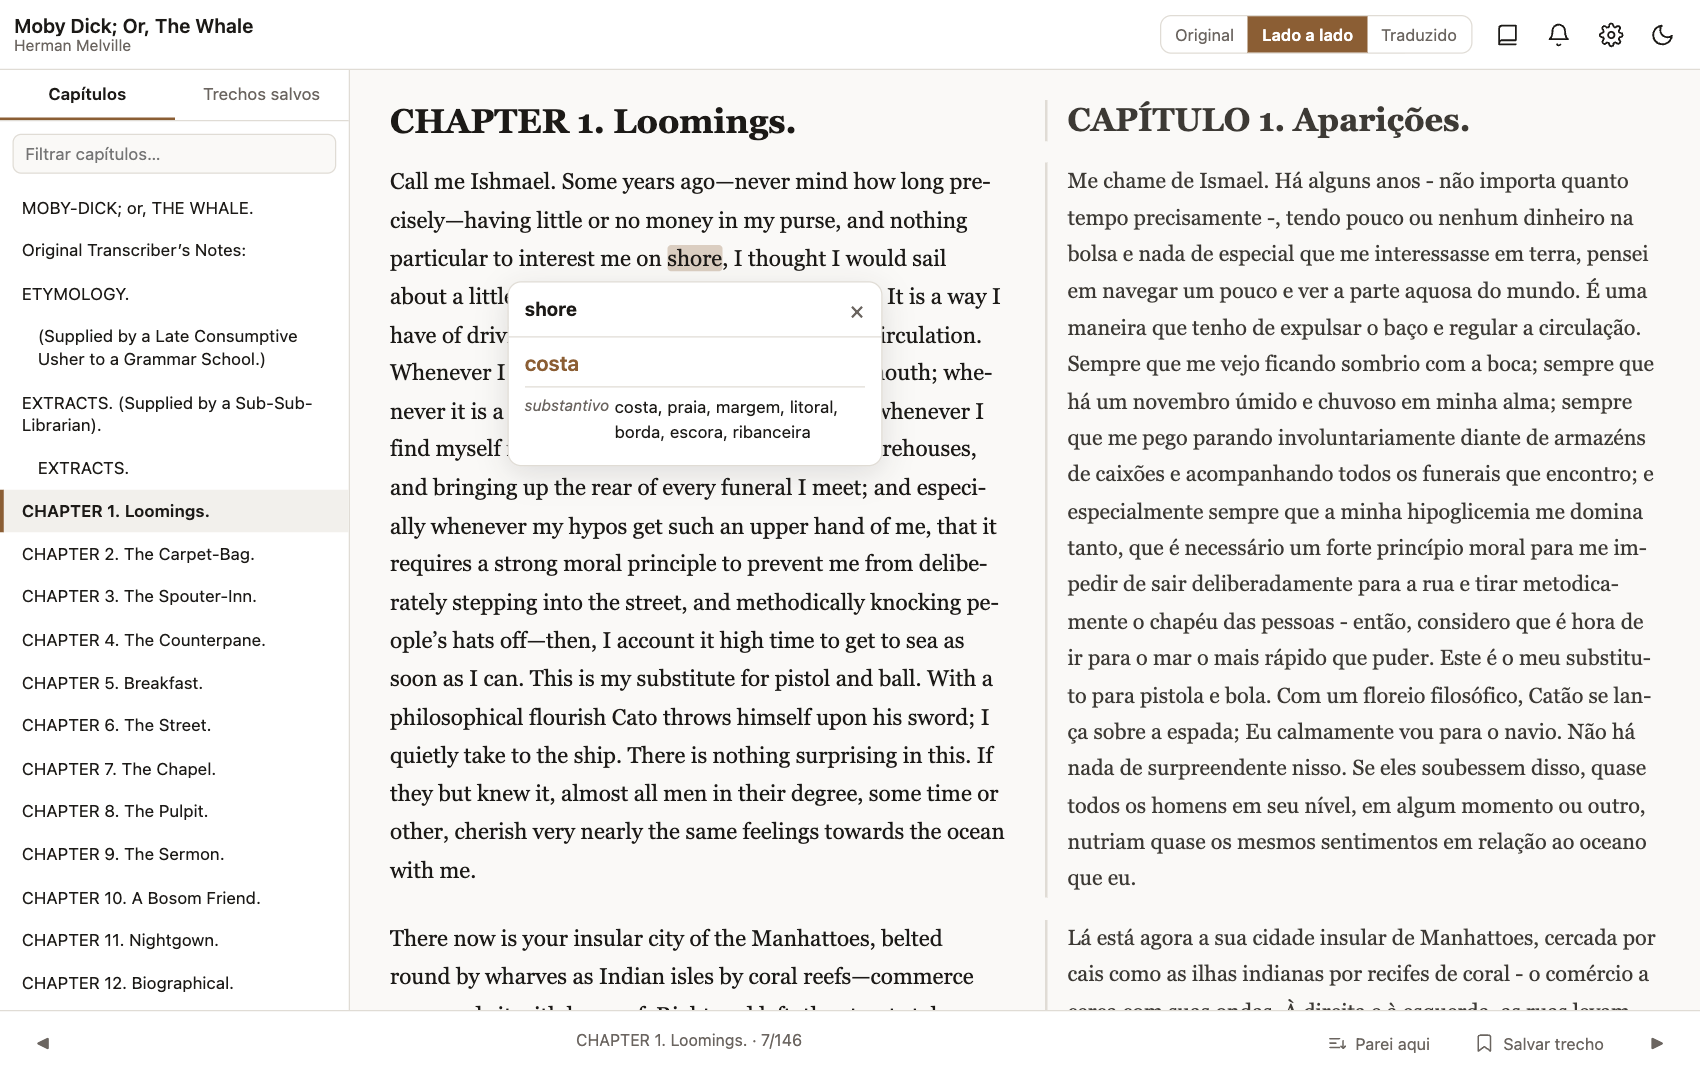
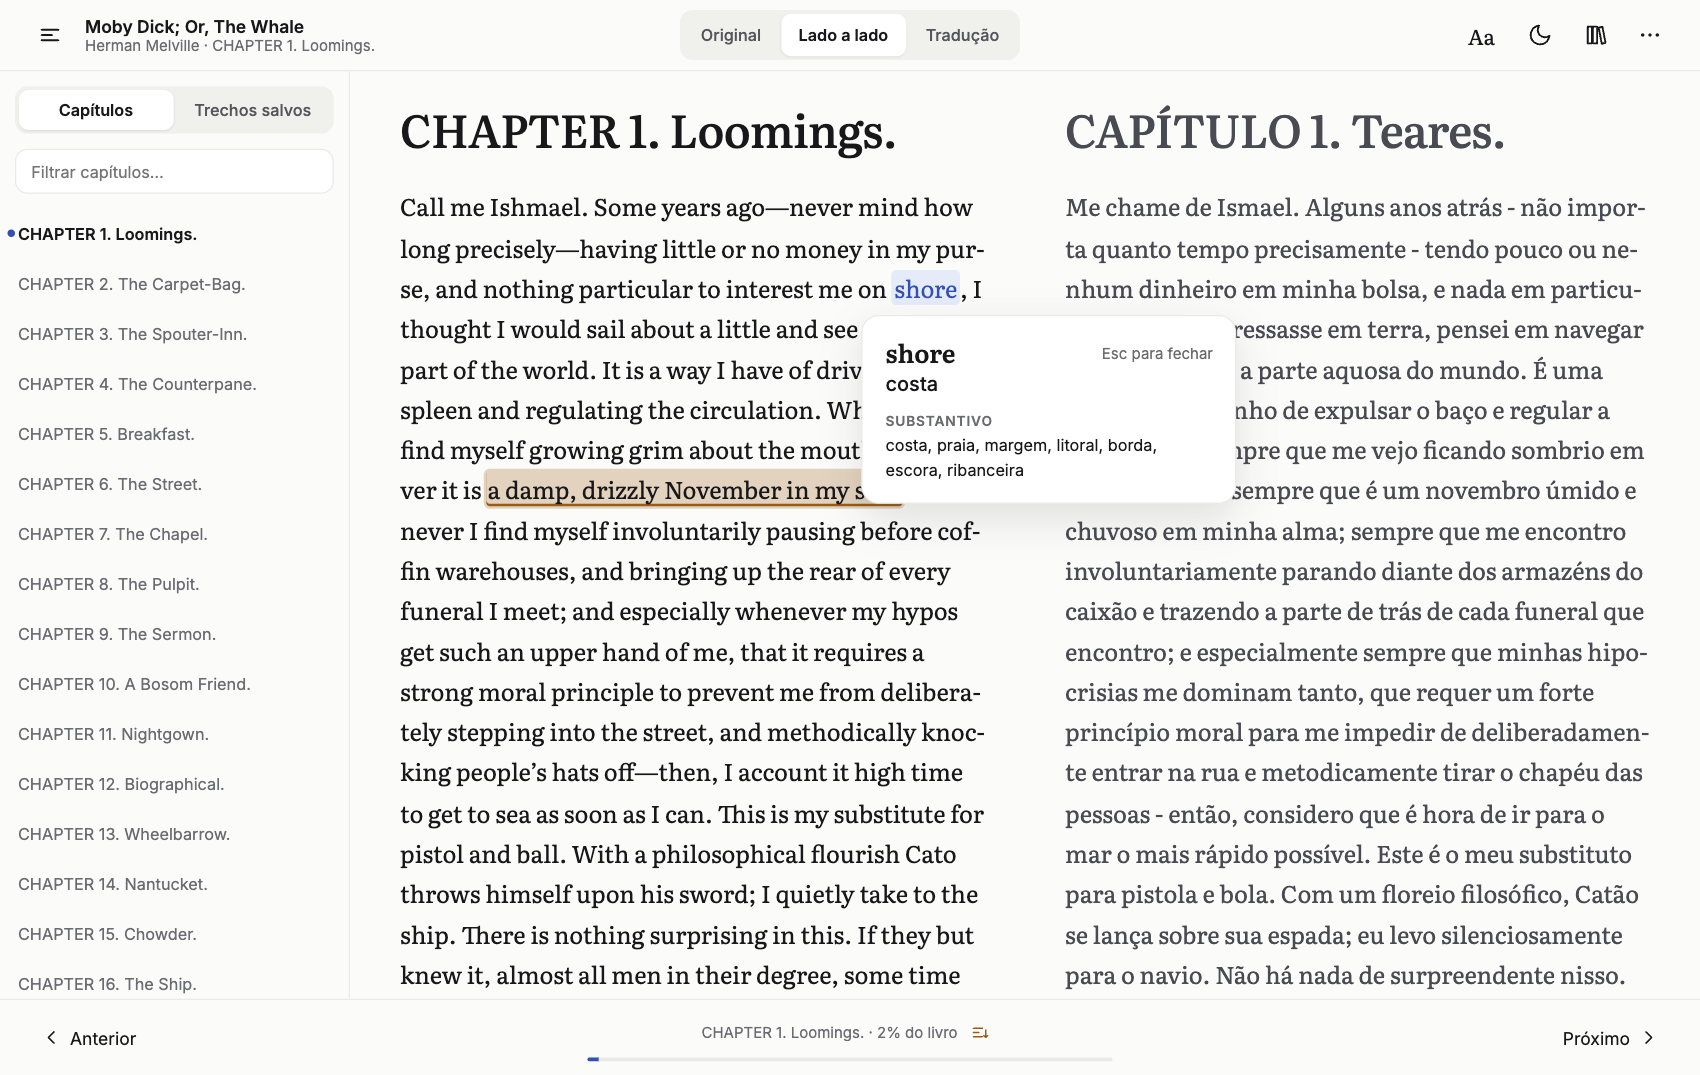
Revisão do README contra o comportamento atual
Afirmações que tinham ficado para trás ou estavam incompletas:

- Cancelar a tradução volta ao modo Original, e no celular a opção fica no Aa.
- O botão compacto do "parei aqui" fica ao lado do nome do capítulo (não do
  número, que saiu do rodapé) e também remove a marca quando ela está à vista.
- "Continuar lendo" é o último livro aberto e não terminado; a frase só
  aparece se houver uma marca. Adicionar livro, arrastar o arquivo e a busca
  a partir de seis livros passam a ser mencionados.
- No celular, o tema fica no Aa durante a leitura.
- Privacidade: no modo Original o texto do livro não sai, mas a palavra
  clicada no dicionário sai.
- Copiar diagnóstico também está em Aa → Armazenamento e diagnóstico.
- "Para desenvolvedores" aponta também para o DESIGN.md.

ARQUITETURA: o rodapé e a biblioteca mostram o título da entrada do sumário,
não "Capítulo X de N".

Capturas refeitas com o botão de tema no topo, e a do dicionário finalmente
no visual novo. Conferido com a rede liberada: falha mostra o aviso, "Tentar
de novo" traduz os parágrafos que faltaram e a reabertura vem toda do cache,
sem nenhum pedido.

diff --git a/README.md b/README.md
@@ -59,10 +59,11 @@ O seletor no centro do topo escolhe o que aparece:
 | **Tradução** | Só a tradução. |
 
 O modo escolhido fica salvo. Enquanto um capítulo é traduzido, o topo mostra
-"Traduzindo N%" (clique nele para cancelar) e os parágrafos que ainda não
-chegaram aparecem como barras cinzas. Um capítulo traduzido uma vez fica
-guardado no navegador e aparece na hora quando você volta a ele, sem gastar
-internet.
+"Traduzindo N%" e os parágrafos que ainda não chegaram aparecem como barras
+cinzas. Clicando no indicador, você pode **cancelar a tradução**, o que volta
+para o modo Original (no celular, essa opção fica no **Aa**). Um capítulo
+traduzido uma vez fica guardado no navegador e aparece na hora quando você
+volta a ele, sem gastar internet.
 
 O idioma do livro é detectado automaticamente. O idioma da tradução pode ser
 português do Brasil (padrão), português de Portugal, espanhol, francês, alemão
@@ -94,10 +95,11 @@ São duas marcas diferentes, cada uma com um visual próprio:
 **Salvar** e **Copiar**. Se o trecho já estiver marcado, o primeiro botão vira
 **Remover marca**.
 
-**Sem selecionar nada**, a tecla `m` ou o pequeno botão ao lado do número do
-capítulo, no rodapé, marcam o parágrafo que está no topo da tela; a tecla `b`
-salva esse parágrafo. O texto do botão sempre diz o que o próximo clique vai
-fazer.
+**Sem selecionar nada**, a tecla `m` ou o pequeno botão no rodapé, ao lado do
+nome do capítulo, marcam o parágrafo que está no topo da tela; a tecla `b`
+salva esse parágrafo. Com a marca à vista, o mesmo botão (e a tecla `m`)
+passa a remover a marca: o ícone muda e a dica do botão diz o que o próximo
+clique vai fazer.
 
 Quando a marca sai de vista, aparece o botão **Voltar para onde parei**, que
 leva até ela mesmo que esteja em outro capítulo. Ao reabrir o livro, ele já
@@ -106,13 +108,18 @@ abre na marca.
 ### Biblioteca e progresso
 
 O ícone de livros no topo (no celular, a seta de voltar) abre a sua biblioteca.
-No alto fica o livro que você está lendo, com a frase onde parou e o botão
-**Continuar de onde parei**. Embaixo, todos os livros, com quanto você já leu
-de cada um: o percentual é calculado pela quantidade de texto, não pelo número
-de capítulos, então "50%" quer dizer metade do livro de verdade. Livro
-terminado aparece como "Concluído", e livro que você nunca abriu, como "Não
-iniciado". O rodapé da leitura mostra o capítulo e o mesmo número:
-"CHAPTER 1. Loomings. · 2% do livro".
+No alto fica o último livro que você abriu e ainda não terminou, com o
+capítulo, a frase onde você parou (se marcou uma) e o botão **Continuar de
+onde parei**. Embaixo, todos os livros, com quanto você já leu de cada um: o
+percentual é calculado pela quantidade de texto, não pelo número de capítulos,
+então "50%" quer dizer metade do livro de verdade. Livro terminado aparece
+como "Concluído", e livro que você nunca abriu, como "Não iniciado". O rodapé
+da leitura mostra o capítulo e o mesmo número: "CHAPTER 1. Loomings. · 2% do
+livro".
+
+Para abrir outro livro, use **Adicionar livro** (o **+** no celular) ou
+arraste o arquivo para a janela. A partir de seis livros aparece uma busca por
+título ou autor.
 
 Para tirar um livro da biblioteca, use o menu **⋯** no card e escolha
 **Remover livro**. Isso apaga também o progresso, as marcas e as traduções
@@ -125,7 +132,8 @@ guardadas daquele livro.
 O app se adapta a telas pequenas. Como duas colunas não cabem, os modos de
 leitura viram duas opções logo abaixo do topo, **Original** e **Tradução**, e o
 sumário abre pelo botão de menu no rodapé. Se você usa **Lado a lado** no
-computador, ele continua assim quando você volta para a tela grande.
+computador, ele continua assim quando você volta para a tela grande. Durante a
+leitura, o tema claro ou escuro fica no **Aa**.
 
 <p align="center">
   <img src="docs/screenshots/celular-escuro.png" alt="App no celular com tema escuro, mostrando o capítulo 1 de Moby Dick traduzido" width="300">
@@ -172,8 +180,9 @@ tradução. Veja o que fica com você e o que sai:
 | O texto dos capítulos que você traduz | É enviado ao **Google Tradutor** para ser traduzido. Se o Google falhar, vai para o **MyMemory**. |
 | A palavra que você clica no dicionário | É enviada ao **Google Tradutor**. |
 
-No modo **Original**, nada do livro é enviado. Cada parágrafo é enviado uma vez
-só: depois de traduzido, ele fica guardado no navegador. O site é hospedado no
+No modo **Original**, nenhum texto do livro é traduzido nem enviado; só a
+palavra que você clicar no dicionário sai do navegador. Cada parágrafo é
+enviado uma vez só: depois de traduzido, ele fica guardado no navegador. O site é hospedado no
 GitHub Pages, que, como qualquer servidor web, registra o endereço IP de quem o
 acessa.
 
@@ -286,7 +295,8 @@ profissional.
 
 Abra uma [issue](https://github.com/FabioTrindade/epub-reader/issues)
 descrevendo o que você fez e o que aconteceu. Ajuda muito colar o relatório do
-item **Copiar diagnóstico**, no menu **⋯** do topo da tela. Ele traz o
+item **Copiar diagnóstico**, no menu **⋯** do topo da tela (ou em **Aa →
+Armazenamento e diagnóstico**). Ele traz o
 navegador e a lista de avisos do app. Revise antes de colar, porque ele pode
 incluir o nome do arquivo do livro.
 
@@ -315,7 +325,8 @@ e a pasta `/ (root)`. Em alguns minutos o app estará em
 HTML, CSS e JavaScript puros, com módulos ES nativos e uma única dependência
 (JSZip). A estrutura do código, as decisões de projeto, os provedores de
 tradução, os códigos do diagnóstico e o roteiro de testes estão em
-**[docs/ARQUITETURA.md](docs/ARQUITETURA.md)**.
+**[docs/ARQUITETURA.md](docs/ARQUITETURA.md)**; o visual (cores, fontes,
+componentes e telas) segue **[docs/DESIGN.md](docs/DESIGN.md)**.
 
 Sugestões e correções são bem-vindas: abra uma issue para conversar ou envie um
 pull request.

diff --git a/docs/ARQUITETURA.md b/docs/ARQUITETURA.md
@@ -64,9 +64,10 @@ primeiro pedaço; *Team Topologies* tem 16 arquivos assim em 44. Cada pedaço
 continua sendo um capítulo interno — as setas passam por ele e progresso,
 marcadores e "parei aqui" guardam as mesmas posições —, mas herda o título da
 entrada anterior e acende ela na lateral. A capa embrulhada num xhtml antes da
-primeira entrada herda da seguinte. O contador do rodapé e o "Capítulo X de N"
-da biblioteca contam pela lateral. Sem sumário utilizável, cada arquivo do
-spine continua sendo um item.
+primeira entrada herda da seguinte. O rodapé e a biblioteca mostram o título
+dessa entrada, nunca uma contagem: "Capítulo 12 de 29" contaria entradas do
+sumário (capa, prefácio, partes) e contradiria a numeração do livro. Sem
+sumário utilizável, cada arquivo do spine continua sendo um item.
 
 **Tradução em lote com re-alinhamento.** Um request por parágrafo seria lento
 demais; o capítulo inteiro de uma vez perderia a correspondência. O meio-termo
